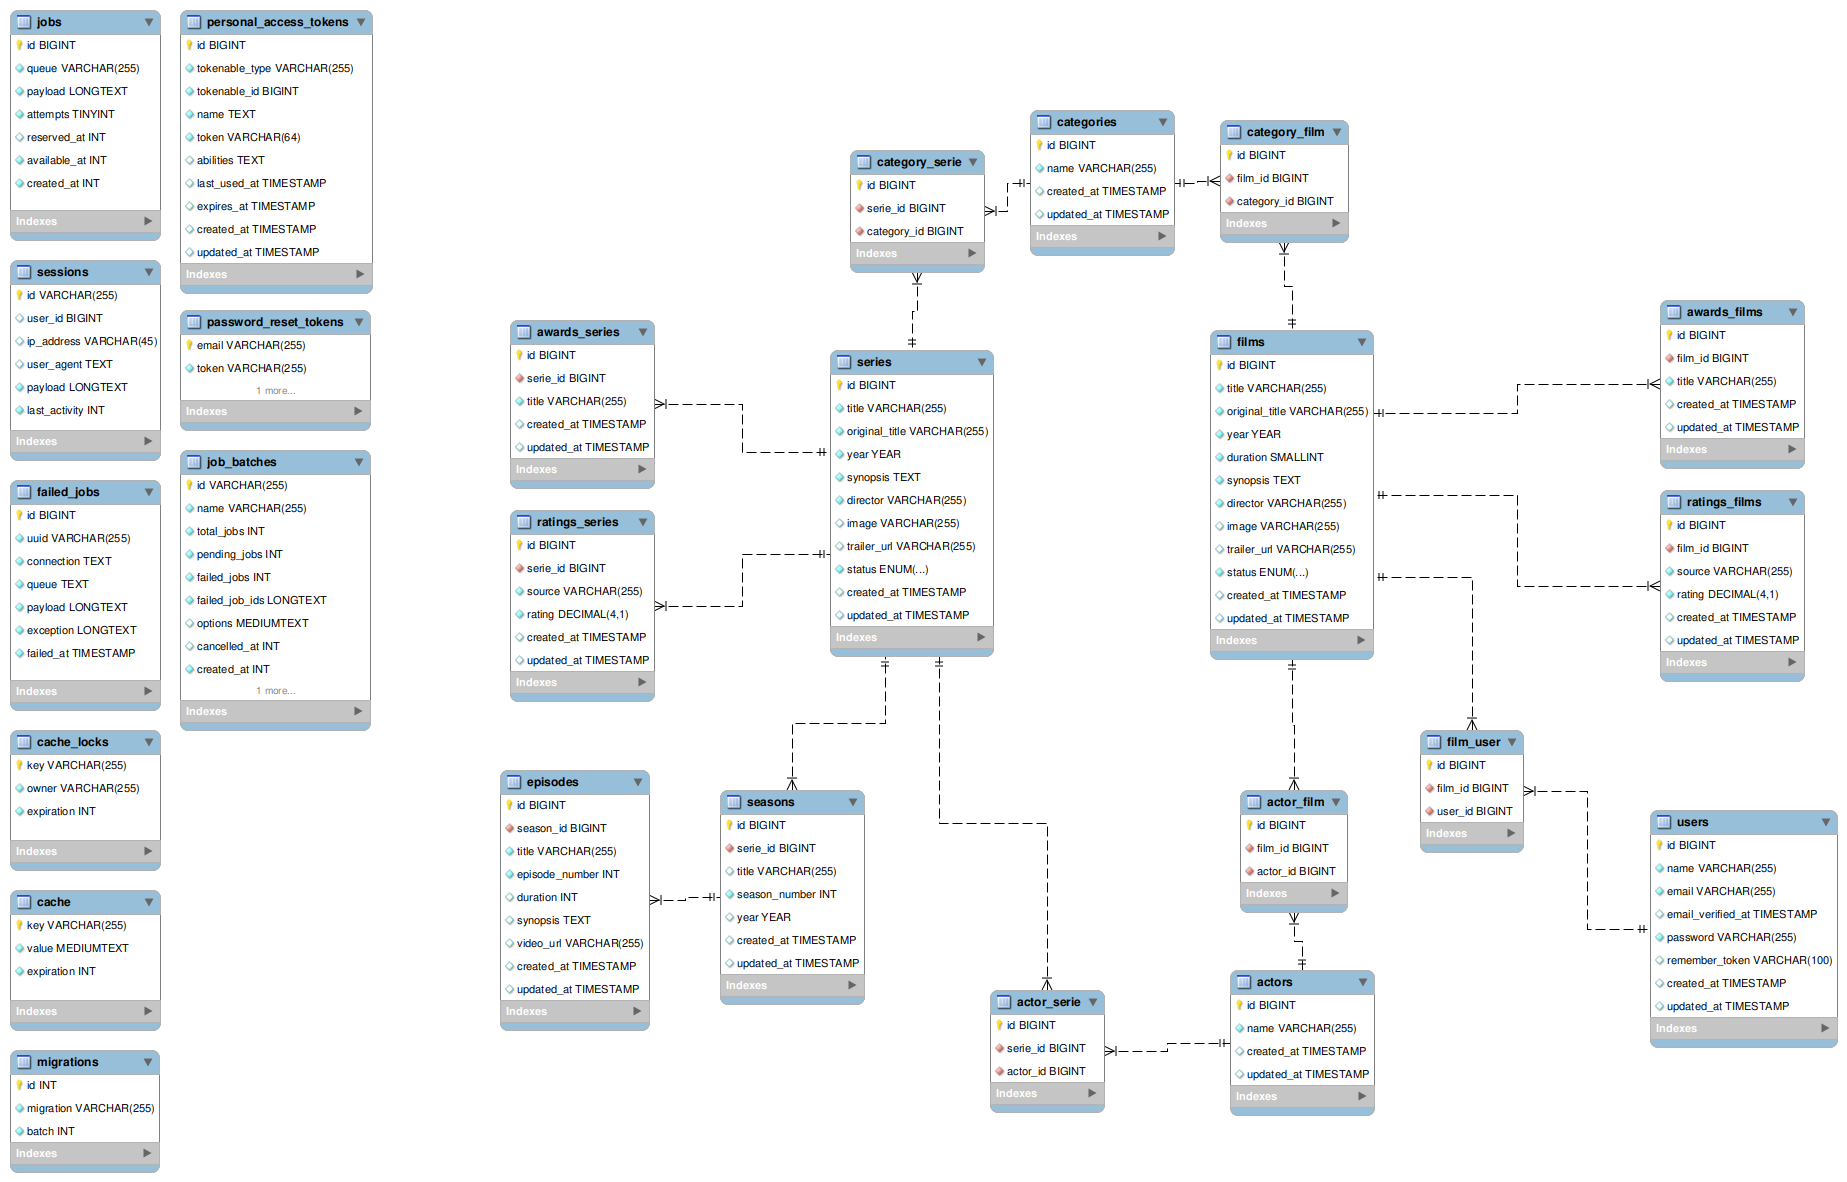
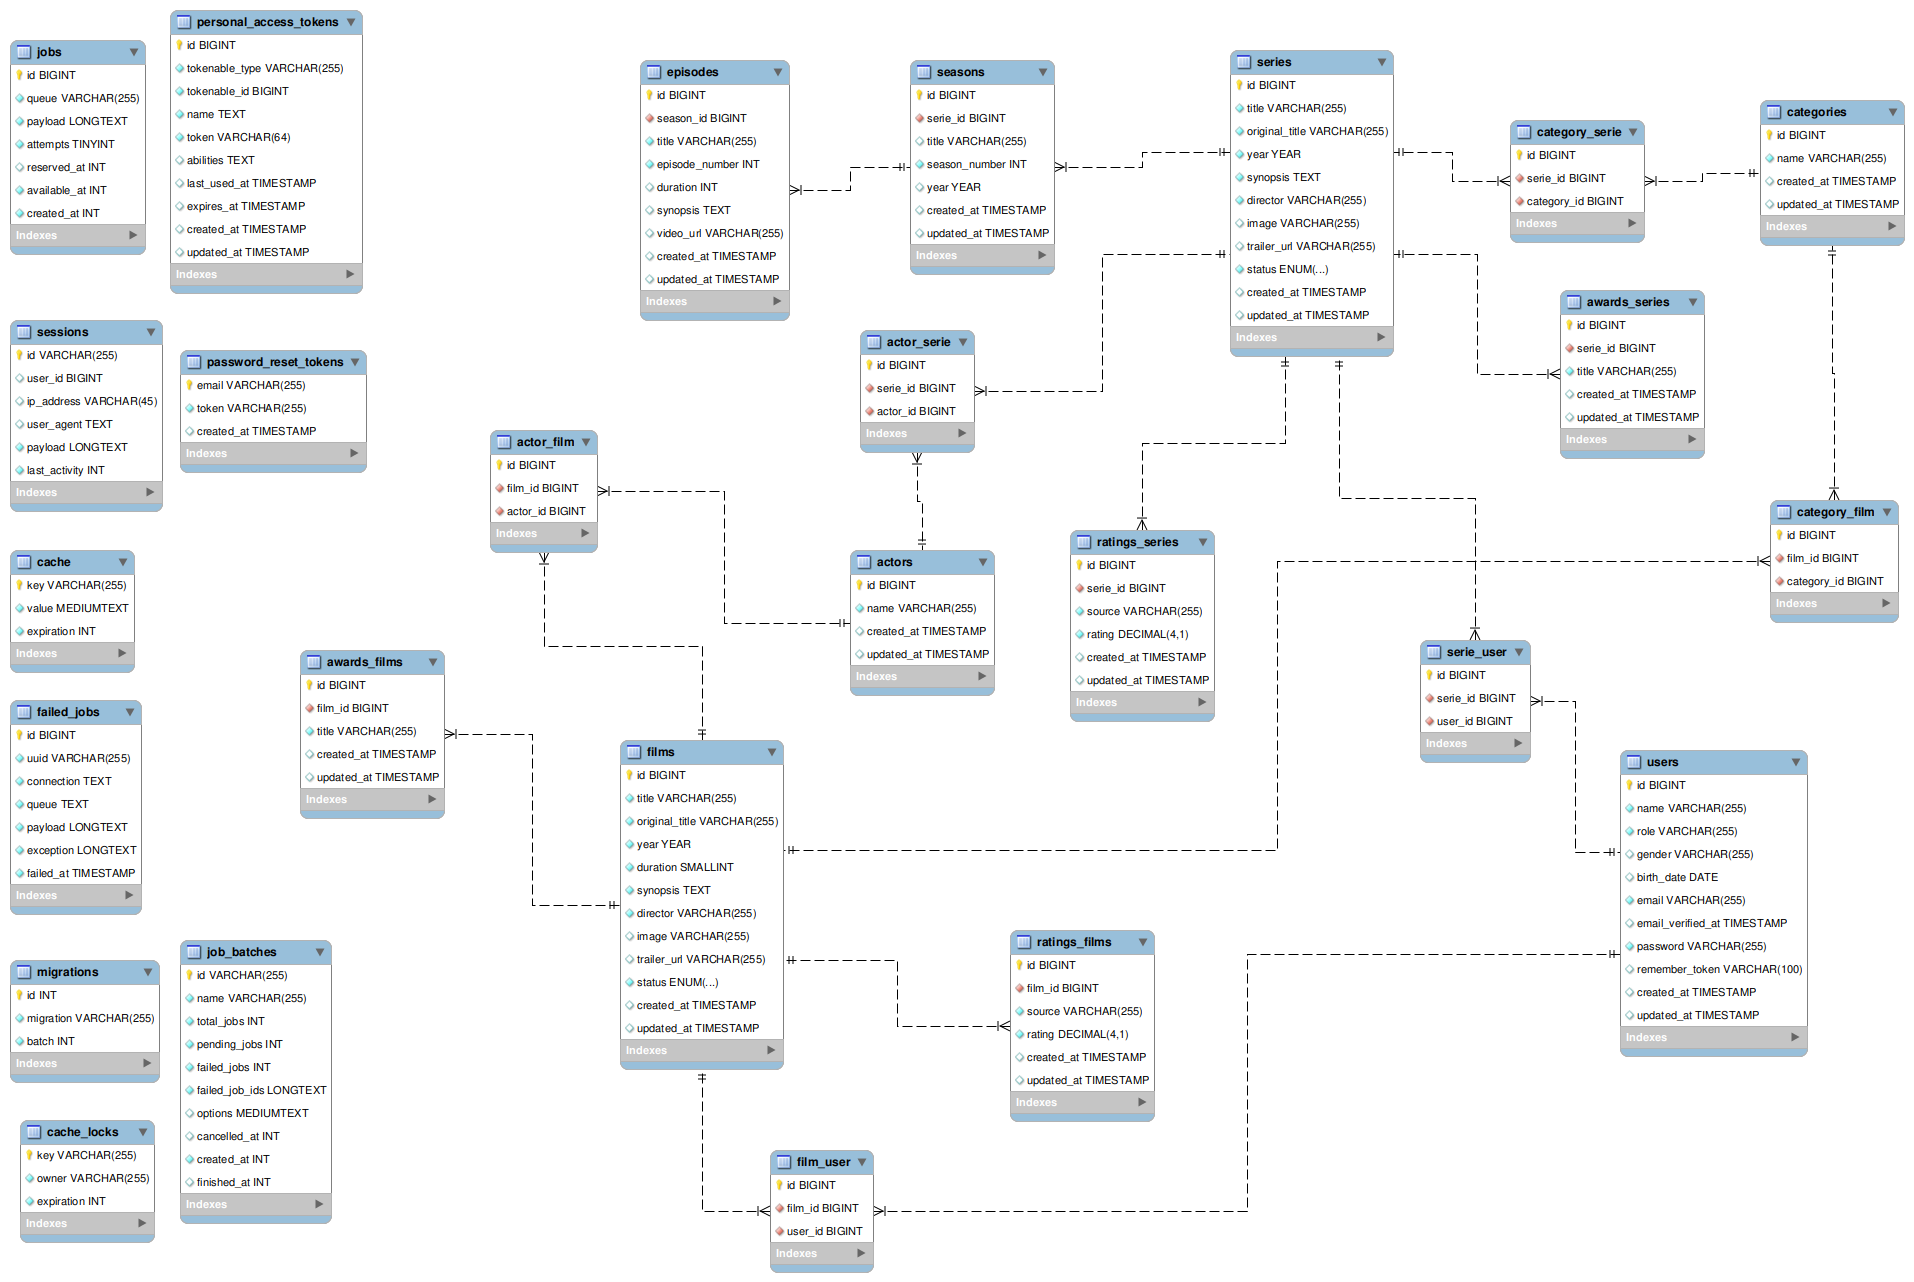
CSS corrections

diff --git a/recruiting-laon-frontend/src/components/HeaderCatalogContainer/index.js b/recruiting-laon-frontend/src/components/HeaderCatalogContainer/index.js
@@ -94,7 +94,11 @@ export default function HeaderCatalogContainer({
           <>
             {isMobile && (
               <>
-                <SvgLogo size="small" onClick={() => navigate("/catalogo")} />
+                <SvgLogo
+                  size="small"
+                  pointer={true}
+                  onClick={() => navigate("/catalogo")}
+                />
                 <div className={styles.header_catalog_options}>
                   <CircleSvg
                     variant={"search"}
@@ -112,7 +116,11 @@ export default function HeaderCatalogContainer({
 
             {!isMobile && (
               <>
-                <SvgLogo size="small" onClick={() => navigate("/catalogo")} />
+                <SvgLogo
+                  pointer={true}
+                  size="small"
+                  onClick={() => navigate("/catalogo")}
+                />
 
                 <div className={styles.header_catalog_options}>
                   <svg

diff --git a/recruiting-laon-frontend/src/components/SvgLogo/index.js b/recruiting-laon-frontend/src/components/SvgLogo/index.js
@@ -1,6 +1,6 @@
 import { useNavigate } from "react-router-dom";
 
-export default function SvgLogo({ size = "medium", onClick }) {
+export default function SvgLogo({ size = "medium", onClick, pointer = false }) {
   const sizes = {
     small: { width: 132, height: 40 },
     medium: { width: 264, height: 80 },
@@ -11,7 +11,7 @@ export default function SvgLogo({ size = "medium", onClick }) {
 
   return (
     <svg
-      className={"cursor_pointer"}
+      className={pointer ? "cursor_pointer" : ""}
       onClick={onClick}
       width={width}
       height={height}

diff --git a/recruiting-laon-frontend/src/index.css b/recruiting-laon-frontend/src/index.css
@@ -166,3 +166,7 @@ span {
 .gap_40 {
   gap: 40px;
 }
+
+.cursor_pointer {
+  cursor: pointer !important;
+}

diff --git a/recruiting-laon-frontend/src/components/HeaderAuthContainer/index.js b/recruiting-laon-frontend/src/components/HeaderAuthContainer/index.js
@@ -22,7 +22,7 @@ export default function HeaderAuthContainer() {
       {isMobile ? (
         <div className={`${styles.inner_header_container}`}>
           <CircleSvg variant={"back"} onClick={() => navigate("/")} />
-          <SvgLogo size="small" />
+          <SvgLogo size="small" pointer={false} />
           {location.pathname === "/entrar" ? (
             <LrButtonBasic
               text="Cadastrar"

diff --git a/recruiting-laon-frontend/src/pages/Home/index.js b/recruiting-laon-frontend/src/pages/Home/index.js
@@ -6,7 +6,7 @@ import styles from "./styles.module.css";
 export default function Home() {
   return (
     <section className={`${styles.lr_section_home}`}>
-      <SvgLogo size="medium" />
+      <SvgLogo size="medium" pointer={false} />
 
       <div className={`${styles.lr_section_home_content}`}>
         <span className={`${styles.lr_section_home_badge}`}>